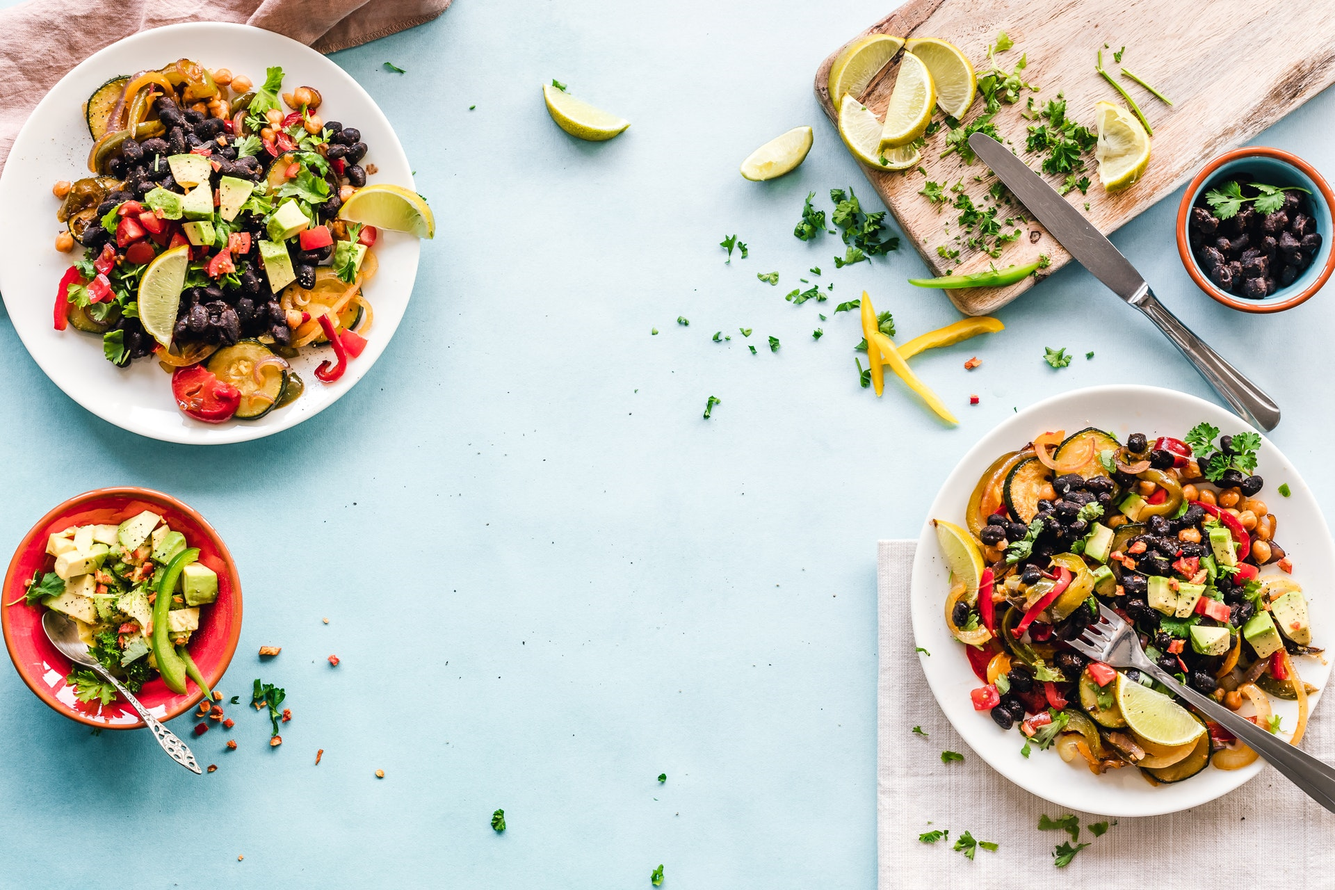
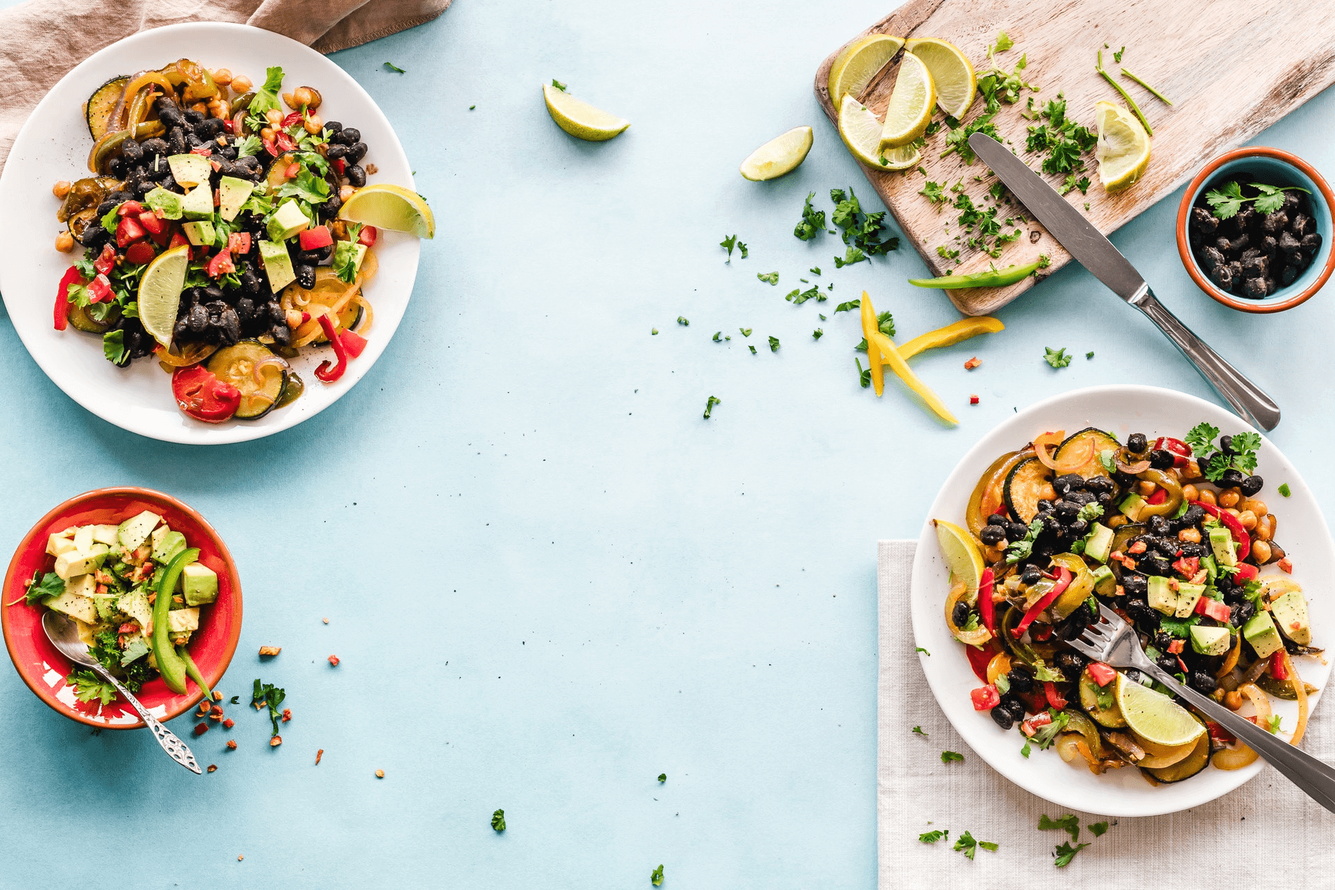
Compress background images. Add new colors to ctas

diff --git a/css/index.css b/css/index.css
@@ -213,16 +213,17 @@ img {
   left: 10%;
   font-size: 3rem;
   font-family: 'Playfair Display', serif;
-  color: #232a34;
+  color: hsl(216, 29.5%, 2.1%);
+  font-weight: bold;
 }
 .banner .tag_line button {
-  background: none;
-  color: #232a34;
+  background: hsl(214, 9.5%, 32.1%);
+  color: white;
   font-size: 2rem;
   border-radius: 0.4rem;
   padding-top: 0;
   padding-bottom: 0;
-  border: 1px solid #232a34;
+  border: 1px solid hsl(215, 19.5%, 17.1%);
   cursor: pointer;
   padding: 0.6rem;
   margin-top: 3rem;
@@ -232,6 +233,9 @@ img {
 }
 .banner .tag_line button:focus {
   outline: none;
+}
+.banner .tag_line button:hover {
+  background: hsl(216, 29.5%, 2.1%);
 }
 .hamburger {
   display: inline-block;
@@ -333,7 +337,7 @@ img {
   align-content: center;
   padding: 0 1rem;
   height: 7rem;
-  background-color: #232a34;
+  background-color: hsl(215, 19.5%, 17.1%);
   position: fixed;
   width: 100%;
   z-index: 1;
@@ -375,6 +379,7 @@ img {
   margin-top: 1.7rem;
   width: 18rem;
   left: calc(100% - 18rem);
+  border: 1px solid hsl(216, 29.5%, 2.1%);
   border-radius: 0.7rem;
   height: 3.5rem;
 }
@@ -400,7 +405,7 @@ img {
   margin-top: 2rem;
   width: 50%;
   left: 0%;
-  background: #232a34;
+  background: hsl(215, 19.5%, 17.1%);
   animation: slide-in 0.5s ease-in;
   display: flex;
   justify-content: space-between;
@@ -436,6 +441,7 @@ img {
 .body-section {
   padding-top: 7rem;
   padding-bottom: 3rem;
+  height: 100vh;
 }
 .body-section h2 {
   font-size: 3rem;
@@ -472,7 +478,7 @@ img {
 }
 #testimonials h2 {
   margin: 14rem 7rem 0 0;
-  color: #232a34;
+  color: hsl(215, 19.5%, 17.1%);
 }
 #testimonials .body-container {
   padding-top: 16rem;
@@ -509,11 +515,11 @@ img {
 }
 #testimonials .active-button {
   outline: none;
-  background-color: #232a34;
+  background-color: hsl(215, 19.5%, 17.1%);
 }
 .footer {
   padding-top: 2rem;
-  background: #232a34;
+  background: hsl(214, 9.5%, 32.1%);
 }
 .footer .social {
   display: flex;

diff --git a/less/banner.less b/less/banner.less
@@ -39,11 +39,12 @@
             left:10%;
             font-size: @font-large;
             font-family: @font-headers;
-            color: @nav-color;
+            color: @dark-color;
+            font-weight: bold;
         }
 
         button{
-            .button-design(@color:none, @font-color: @nav-color, @font-size: @font-medium, @radius: 0.4rem, @top: 0, @bottom: 0);
+            .button-design(@color:@light-color, @font-color: white, @font-size: @font-medium, @radius: 0.4rem, @top: 0, @bottom: 0);
             border: 1px solid @nav-color;
             cursor: pointer;
             padding: 0.6rem;
@@ -54,6 +55,10 @@
 
             &:focus{
                 outline:none;
+            }
+
+            &:hover{
+                background: @dark-color;
             }
         }
     }

diff --git a/less/variables.less b/less/variables.less
@@ -3,7 +3,9 @@
 @font-large: 3rem;
 @font-huge: 4rem;
 
-@nav-color: rgb(35, 42, 52);
+@nav-color: hsl(215, 19.5%, 17.1%); //main color
+@dark-color: hsl(216, 29.5%, 2.1%);
+@light-color: hsl(214, 9.5%, 32.1%);
 @nav-font: white;
 @body-font: white;
 

diff --git a/less/nav.less b/less/nav.less
@@ -47,6 +47,7 @@
             margin-top: 1.7rem;
             width: 18rem;
             left: calc(100% - 18rem);
+            border: 1px solid @dark-color;
             border-radius:0.7rem;
             height: 3.5rem;
             &:focus{

diff --git a/less/sections.less b/less/sections.less
@@ -1,6 +1,7 @@
 .body-section{
     padding-top:7rem;
     padding-bottom: 3rem;
+    height: 100vh;
     h2{
         font-size: @font-large;
         text-align:center;

diff --git a/less/footer.less b/less/footer.less
@@ -1,6 +1,6 @@
 .footer{
     padding-top: 2rem;
-    background: @nav-color;
+    background: @light-color;
 
     .social{
         .flex(space-around);
